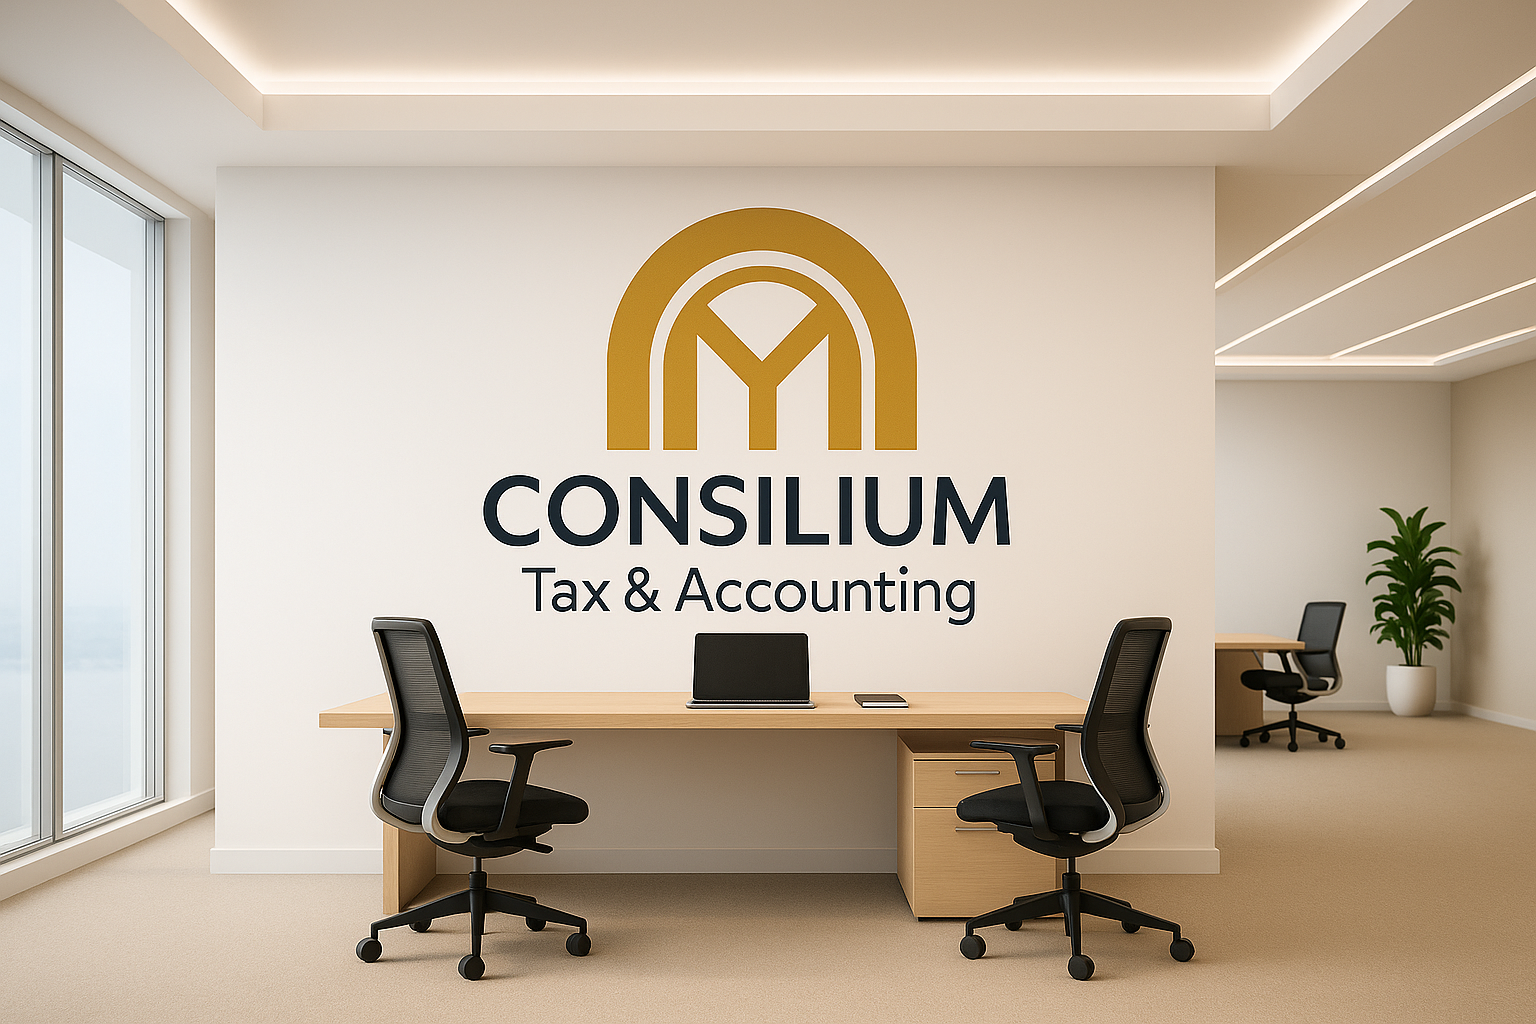
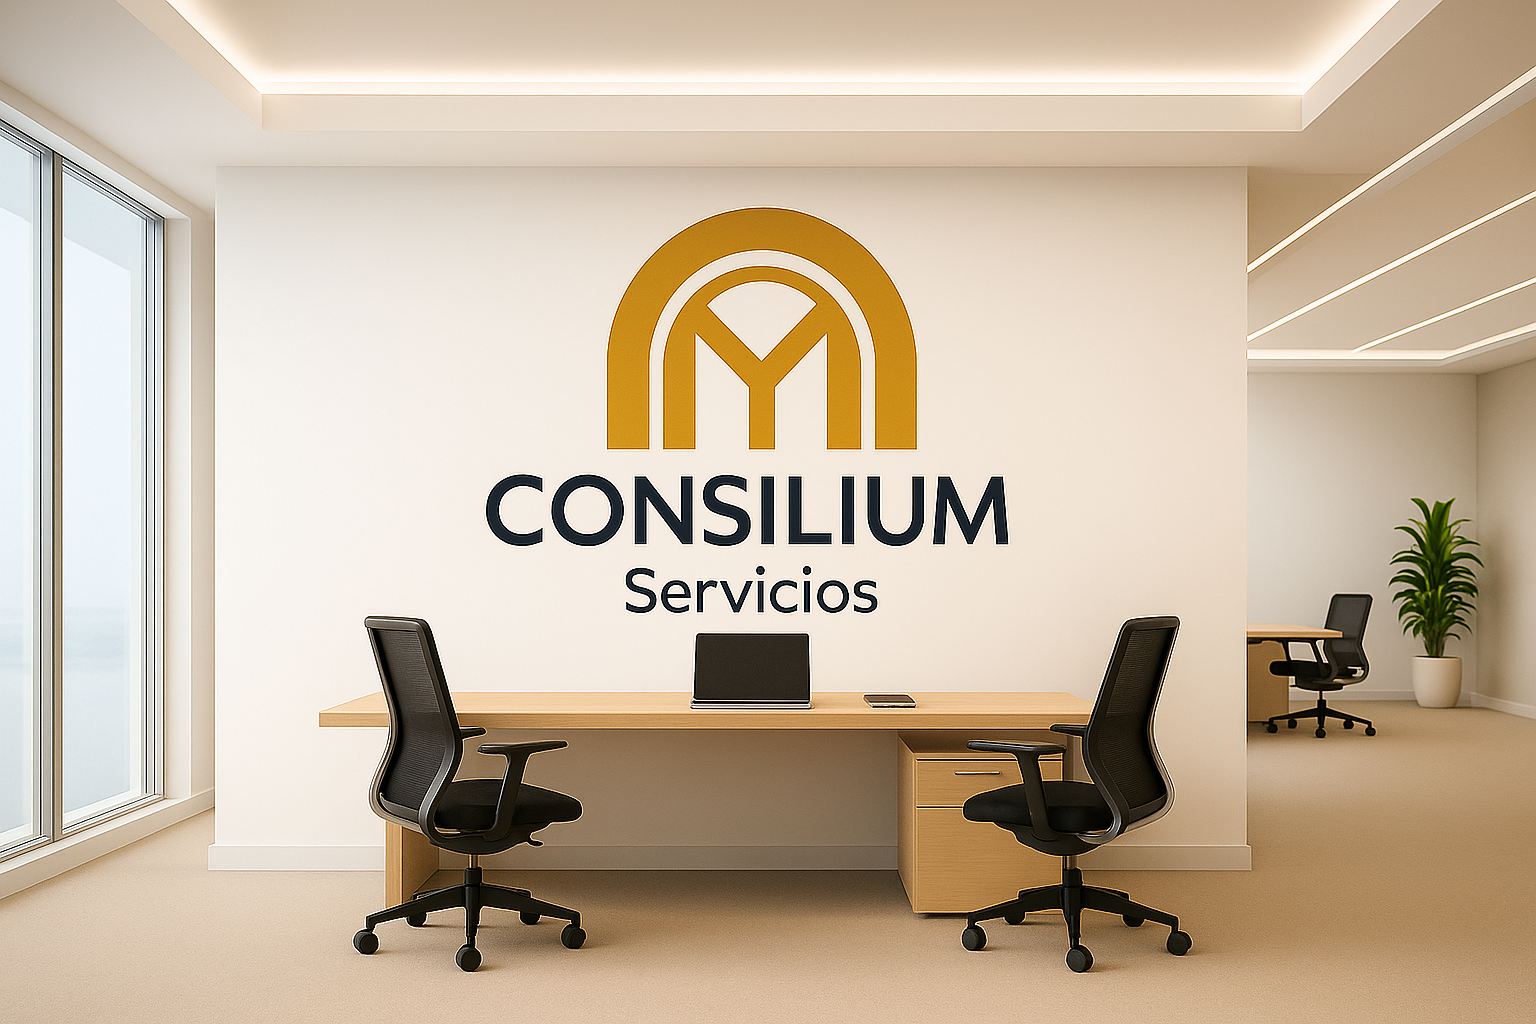
ajustadas imagenes de servicios y contactos

diff --git a/src/pages/Contactenos.tsx b/src/pages/Contactenos.tsx
@@ -11,7 +11,7 @@ const Contactenos = () => {
       {/* ====== 1. HERO SECTION - SOLO IMAGEN (Sin cambios) ====== */}
       <section className="h-[50vh] lg:h-[90vh]">
         <img
-          src="/yainie-consiliumSERVICES.png"
+          src="/yainie-consiliumContactos.png"
           alt="Contacto con Consilium Multiservices"
           className="w-full h-full object-cover object-center"
         />
